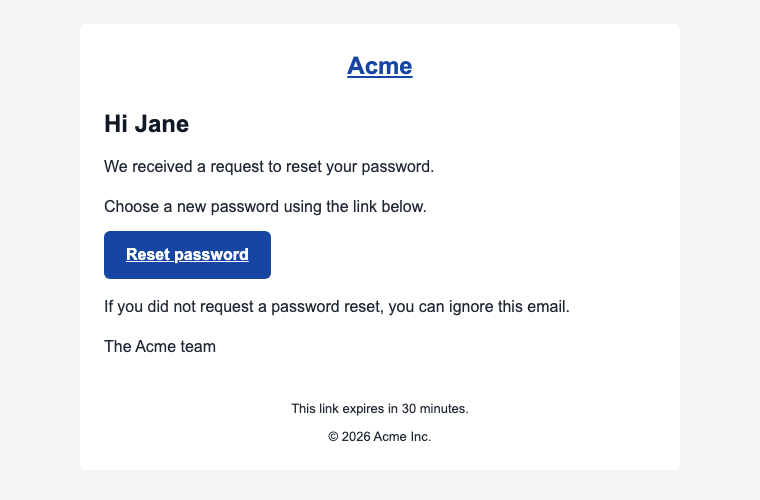
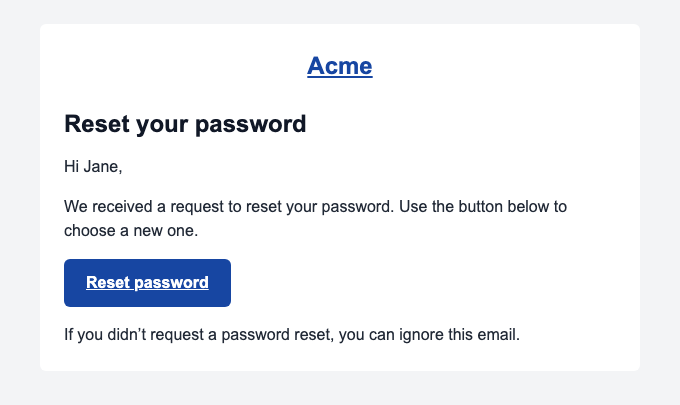
docs: showcase password reset and verification emails

diff --git a/README.md b/README.md
@@ -47,12 +47,9 @@ one call, use the [named `PatraMail` constructor](https://github.com/sarthak-gup
 
 ## Templates
 
-<details>
-<summary>Preview a password-reset email</summary>
-
-![Password-reset email with a reset link and expiration notice](https://raw.githubusercontent.com/sarthak-gupta229/patramail/main/docs/password-reset.png)
-
-</details>
+| Password reset                                                                                                                                  | Email verification                                                                                                                                      |
+| ----------------------------------------------------------------------------------------------------------------------------------------------- | ------------------------------------------------------------------------------------------------------------------------------------------------------- |
+| ![Password-reset email with a Reset password button](https://raw.githubusercontent.com/sarthak-gupta229/patramail/main/docs/password-reset.png) | ![Verification email with a Verify email address button](https://raw.githubusercontent.com/sarthak-gupta229/patramail/main/docs/email-verification.png) |
 
 | Account templates                          | Event templates                              |
 | ------------------------------------------ | -------------------------------------------- |

diff --git a/docs/DECISIONS.md b/docs/DECISIONS.md
@@ -46,3 +46,4 @@
 - README follow-up — Add docs/events-preview.png using generated light and dark event previews to show the actual output on GitHub.
 - npm listing follow-up — Use absolute public GitHub links and hosted preview images so npm readers can reach assets and documentation outside the tarball.
 - npm listing follow-up — Prepare version 0.1.1 because npm updates the package-page README when a new version is published.
+- Account preview follow-up — Add docs/email-verification.png and update docs/password-reset.png with screenshots of the built-in account templates for the README comparison.

diff --git a/CHANGELOG.md b/CHANGELOG.md
@@ -3,7 +3,7 @@
 ## 0.1.1
 
 - Add GitHub repository, homepage, and issue tracker links to the npm package metadata.
-- Show email previews and link to documentation from the npm README.
+- Show event, password-reset, and email-verification previews and link to documentation from the npm README.
 
 ## 0.1.0
 
